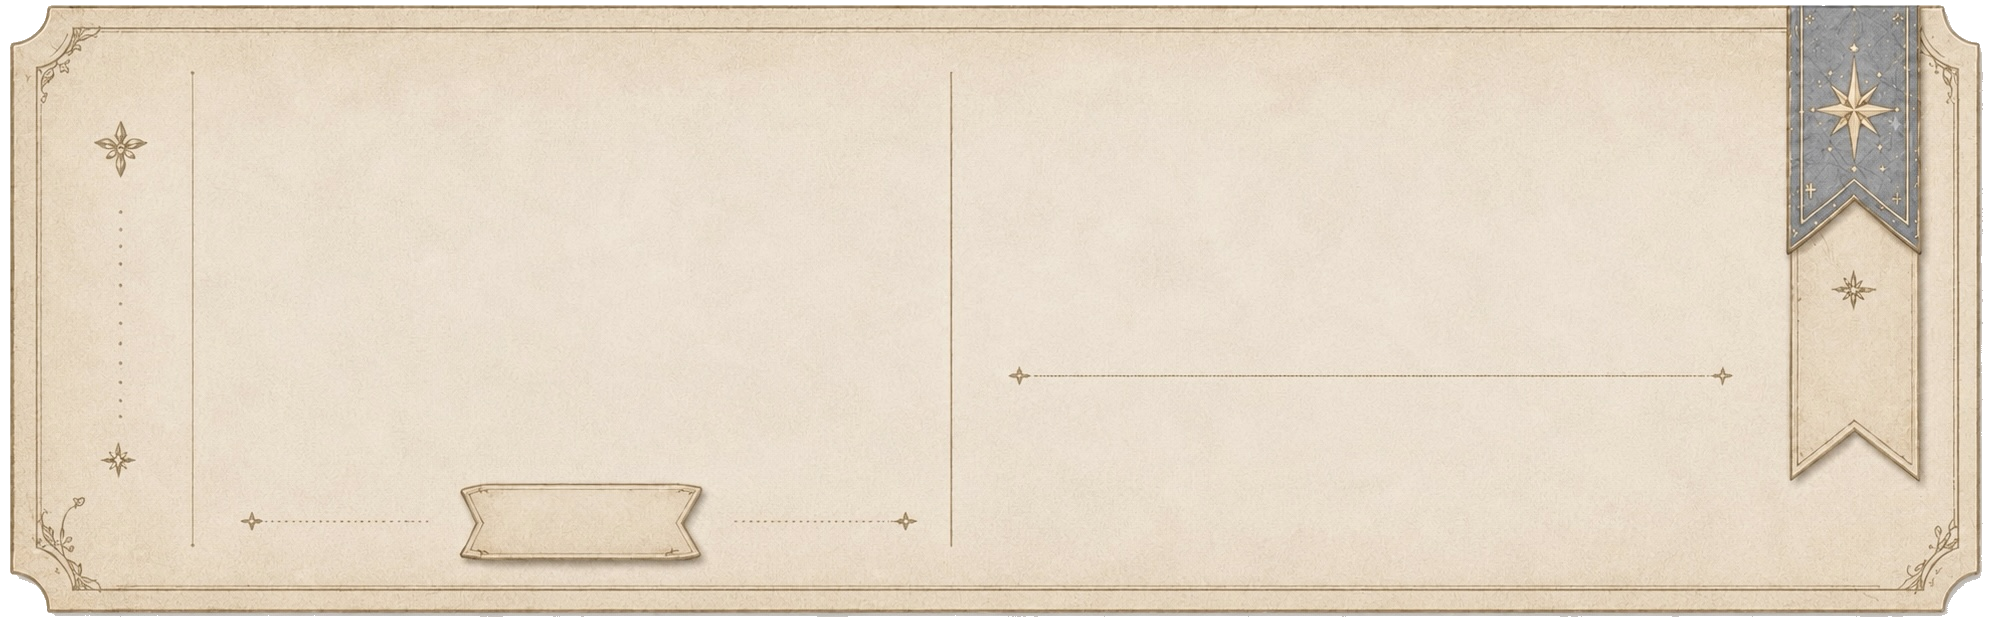
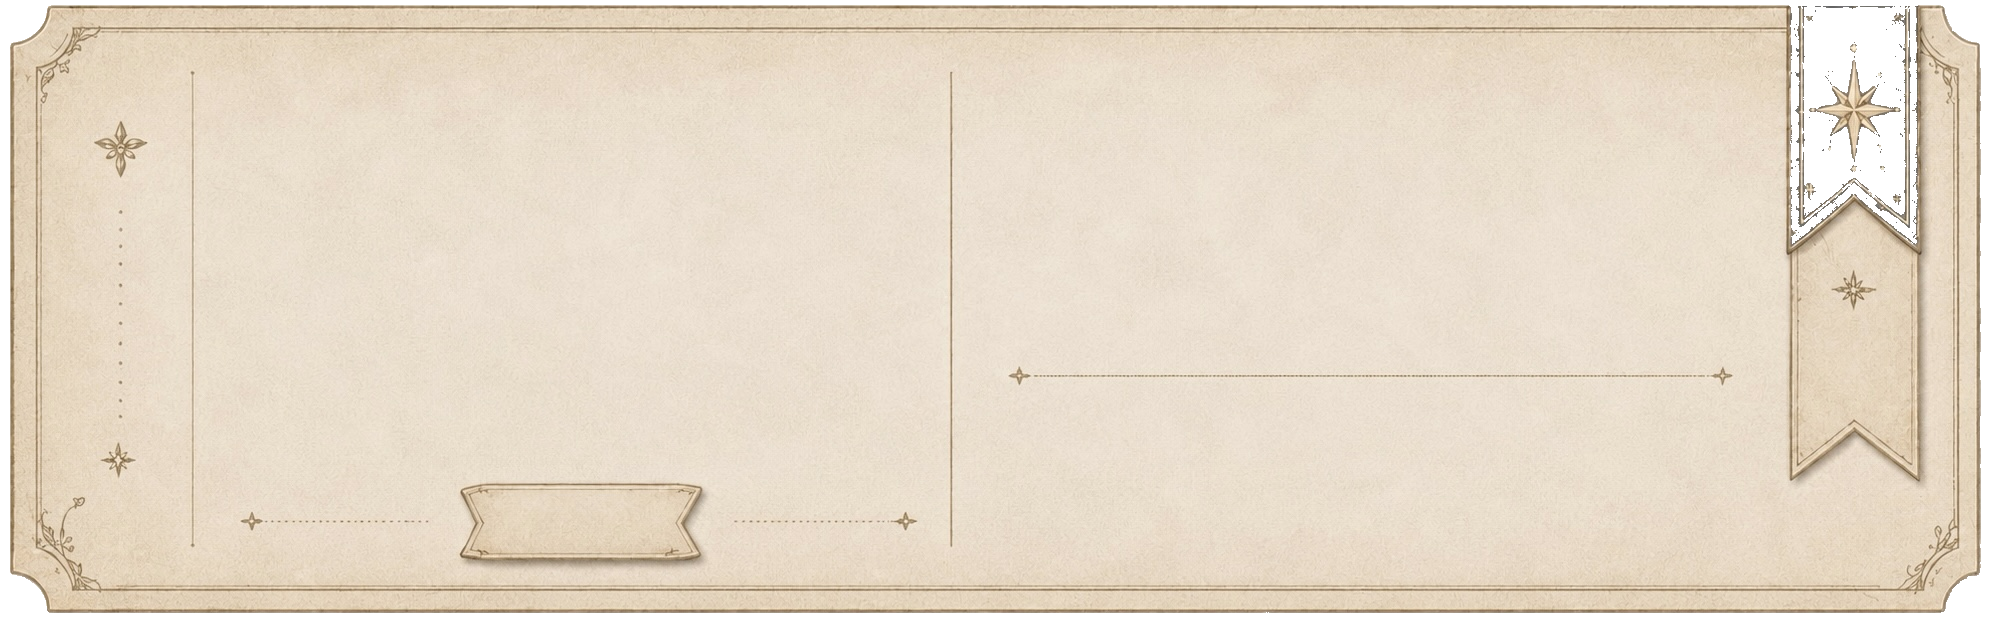
Kill the gray shadow edge on cards; popup vellum PNG + velvet button + conversational coaxing; borderless review nav; un-clip option mark
- IMG_6778: flooded the low-saturation GRAY shadow edge (the baked 白边) away,
  stopping at the warm gold border — note cards now end clean.
- IMG_6856 popup: charcoal/gray frame flooded transparent → parchment plaque PNG.
- Popup text: bigger, looser line-height, and a warm princess-coaxing line in
  Chinese under each (quiz/comprehension/review/dictation exits).
- KEEP GOING is a velvet #757876 button with beige text; LEAVE stays outline.
- Review bottom nav is now borderless (reading-bar style), not the fold border.
- Quiz options get left padding so the ✤/× margin mark isn't clipped.

Changed region(s): [[0.8724, 0.0, 0.9658, 0.3971], [0.0312, 0.9775, 0.9658, 1.0], [0.9658, 0.9164, 0.997, 0.9469]]

diff --git a/js/views.js b/js/views.js
@@ -1380,11 +1380,11 @@ const Views = (function () {
               </div></div>`;
             host.appendChild(scrim);
           }
-          const n = remaining(), total = set.length;
+          const n = remaining();
+          const mark = scrim.querySelector(".qx-mark"); if (mark) mark.textContent = "✦ ALMOST SEALED ✦";
           scrim.querySelector(".qx-en").innerHTML =
-              `Only <b class="qx-num">${n}</b> word${n === 1 ? "" : "s"} left.<br>`
-            + `Leave now, and this set stays unsealed.<br>`
-            + `Finish them, and all ${total} words enter your accumulated list.`;
+              `Only <b class="qx-num">${n}</b> left to seal, your Highness.`
+            + `<span class="qx-zh" style="display:block;margin-top:12px">写完这几个，它们才算真正刻进本子里——都到这儿了，别半途而废嘛～</span>`;
           scrim.querySelector(".qx-stay").textContent = "Seal the Set";
           scrim.querySelector(".qx-leave").textContent = "Give Up";
           scrim.querySelector(".qx-stay").onclick = (e) => { e.stopPropagation(); scrim.remove(); try { input.focus(); } catch (_) {} };
@@ -2007,8 +2007,9 @@ const Views = (function () {
         let scrim = host.querySelector(".qx-scrim");
         if (!scrim) { scrim = document.createElement("div"); scrim.className = "qx-scrim"; host.appendChild(scrim); }
         const left = Math.max(0, originalWords.size - solvedWords.size);
-        scrim.innerHTML = `<div class="qx-card"><div class="qx-mark">✦</div>
-          <p class="qx-en"><b class="qx-num">${left}</b> question${left === 1 ? "" : "s"} left.<br>Finish this stage before you leave.</p>
+        scrim.innerHTML = `<div class="qx-card"><div class="qx-mark">✦ WAIT, YOUR HIGHNESS ✦</div>
+          <p class="qx-en">Just <b class="qx-num">${left}</b> more and the stage is yours.</p>
+          <p class="qx-zh">现在走的话，这一关的单词可就进不了你的花园啦——殿下，再点几下就到手了哦。</p>
           <div class="qx-actions">
             <button type="button" class="gs-btn qx-stay">Keep Going</button>
             <button type="button" class="gs-btn qx-leave">Leave</button>
@@ -2881,8 +2882,9 @@ const Views = (function () {
         let scrim = host.querySelector(".qx-scrim");
         if (!scrim) { scrim = document.createElement("div"); scrim.className = "qx-scrim"; host.appendChild(scrim); }
         const left = Math.max(0, set.length - passedCount());
-        scrim.innerHTML = `<div class="qx-card"><div class="qx-mark">✦</div>
-          <p class="qx-en"><b class="qx-num">${left}</b> word${left === 1 ? "" : "s"} left to review.<br>Finish the round before you leave.</p>
+        scrim.innerHTML = `<div class="qx-card"><div class="qx-mark">✦ ONE MOMENT, YOUR HIGHNESS ✦</div>
+          <p class="qx-en">Only <b class="qx-num">${left}</b> left to revisit today.</p>
+          <p class="qx-zh">这些都是你最容易忘的词呀——陪它们走完这一轮，它们才会乖乖沉下去哦。</p>
           <div class="qx-actions">
             <button type="button" class="gs-btn qx-stay">Keep Going</button>
             <button type="button" class="gs-btn qx-leave">Leave</button>
@@ -3060,8 +3062,9 @@ const Views = (function () {
         let scrim = host.querySelector(".qx-scrim");
         if (!scrim) { scrim = document.createElement("div"); scrim.className = "qx-scrim"; host.appendChild(scrim); }
         const left = all.filter(it => it.dataset.solved !== "1").length;
-        scrim.innerHTML = `<div class="qx-card"><div class="qx-mark">✦</div>
-          <p class="qx-en"><b class="qx-num">${left}</b> question${left === 1 ? "" : "s"} left.<br>Finish the comprehension before you leave.</p>
+        scrim.innerHTML = `<div class="qx-card"><div class="qx-mark">✦ STAY A LINE LONGER ✦</div>
+          <p class="qx-en">Just <b class="qx-num">${left}</b> question${left === 1 ? "" : "s"} between you and the next page.</p>
+          <p class="qx-zh">读都读到这儿了，殿下——把这几道做完，下一章就为你翻开啦。</p>
           <div class="qx-actions">
             <button type="button" class="gs-btn qx-stay">Keep Reading</button>
             <button type="button" class="gs-btn qx-leave">Leave</button>

diff --git a/css/pages.css b/css/pages.css
@@ -1169,21 +1169,20 @@
 .qx-scrim.is-open { opacity: 1; pointer-events: auto; }
 .qx-card {
   position: relative;
-  max-width: 40%; box-sizing: border-box;
-  padding: 8% 11% 9%; text-align: center;
-  /* Painted vellum plaque (IMG_6856) — the frame + dark edge are in the art. */
-  background: url("../assets/bg/ui/IMG_6856.jpeg") no-repeat center center;
+  max-width: 44%; box-sizing: border-box;
+  padding: 6% 8% 6.5%; text-align: center;
+  background: url("../assets/bg/ui/IMG_6856.png") no-repeat center center;
   background-size: 100% 100%;
   border: 0;
   color: #463d2c; font-family: var(--font-display);
-  box-shadow: 0 16px 40px rgba(40, 28, 12, 0.42);
+  box-shadow: 0 18px 44px rgba(40, 28, 12, 0.4);
   transform: scale(0.98); transition: transform 220ms ease;
 }
 .qx-scrim.is-open .qx-card { transform: scale(1); }
 .qx-card::before, .qx-card::after { content: none; }
-.qx-mark { font-size: 14px; letter-spacing: 0.14em; color: #8a6c34; margin-bottom: 0.65em; }
-.qx-en { font-family: var(--font-display); font-size: 16px; line-height: 1.55; letter-spacing: 0.02em; color: #3f3526; margin: 0 0 8px; }
-.qx-zh { font-family: "Noto Serif SC", "Songti SC", serif; font-size: 13px; line-height: 1.6; color: #6a5c44; margin: 0 0 18px; }
+.qx-mark { font-size: 15px; letter-spacing: 0.16em; color: #8a6c34; margin-bottom: 1.1em; }
+.qx-en { font-family: var(--font-display); font-size: 21px; line-height: 1.7; letter-spacing: 0.02em; color: #3f3526; margin: 0 0 12px; }
+.qx-zh { font-family: "Noto Serif SC", "Songti SC", serif; font-size: 15px; line-height: 1.85; color: #6a5c44; margin: 0 0 22px; }
 .qx-num { color: #A8443B; font-weight: 700; font-size: 1.25em; }
 .qx-actions { position: relative; z-index: 1; display: flex; gap: 14px; justify-content: center; }
 .qx-leave { color: #8A5B56; border-color: rgba(138,91,86,0.5); }
@@ -2486,3 +2485,29 @@ body[data-current-view="reading"] .global-bgm-control { display: none; }
 /* Review post-answer hint */
 .rv-fb-tip { margin-top: 8px; font-family: var(--font-display), Georgia, serif; font-size: 12px;
   letter-spacing: 0.12em; color: rgba(124,95,50,0.85); }
+
+/* Popup actions: roomier; the guiding button is velvet #757876 / beige */
+.qx-actions { gap: 22px !important; margin-top: 4px; }
+.qx-stay, .qx-continue, .qx-spell {
+  background: #757876 !important;
+  background-image: linear-gradient(158deg, #84867f 0%, #6c6e69 55%, #62645f 100%) !important;
+  border: 1px solid rgba(54, 50, 38, 0.45) !important;
+  color: #efe6cf !important;
+  box-shadow: inset 0 1px 0 rgba(255,255,255,0.14), inset 0 -2px 6px rgba(0,0,0,0.18), 0 4px 9px rgba(40,28,12,0.3) !important;
+  text-shadow: 0 1px 1px rgba(20,16,8,0.35);
+  padding: 11px 24px !important; min-width: 168px;
+}
+.qx-stay:hover, .qx-continue:hover, .qx-spell:hover { color: #fff !important; }
+.qx-leave, .qx-finish { padding: 11px 24px !important; min-width: 150px; }
+
+/* Review bottom: borderless, like the reading bottom bar (no fold border) */
+.review-art .rv-nav-btn {
+  border: 0 !important; background: transparent !important; box-shadow: none !important;
+  min-width: 0; padding: 0 14px !important;
+  color: rgba(75,62,42,0.92) !important; font-size: 14px !important; letter-spacing: 0.18em !important;
+}
+.review-art .rv-nav-btn:hover { color: #2f281f !important; text-shadow: none; }
+
+/* Don't let the ✤ / × margin mark be clipped on the left */
+.reading-art .quiz-options { padding-left: 1.8em; }
+.review-art  .quiz-options { padding-left: 1.8em; }
